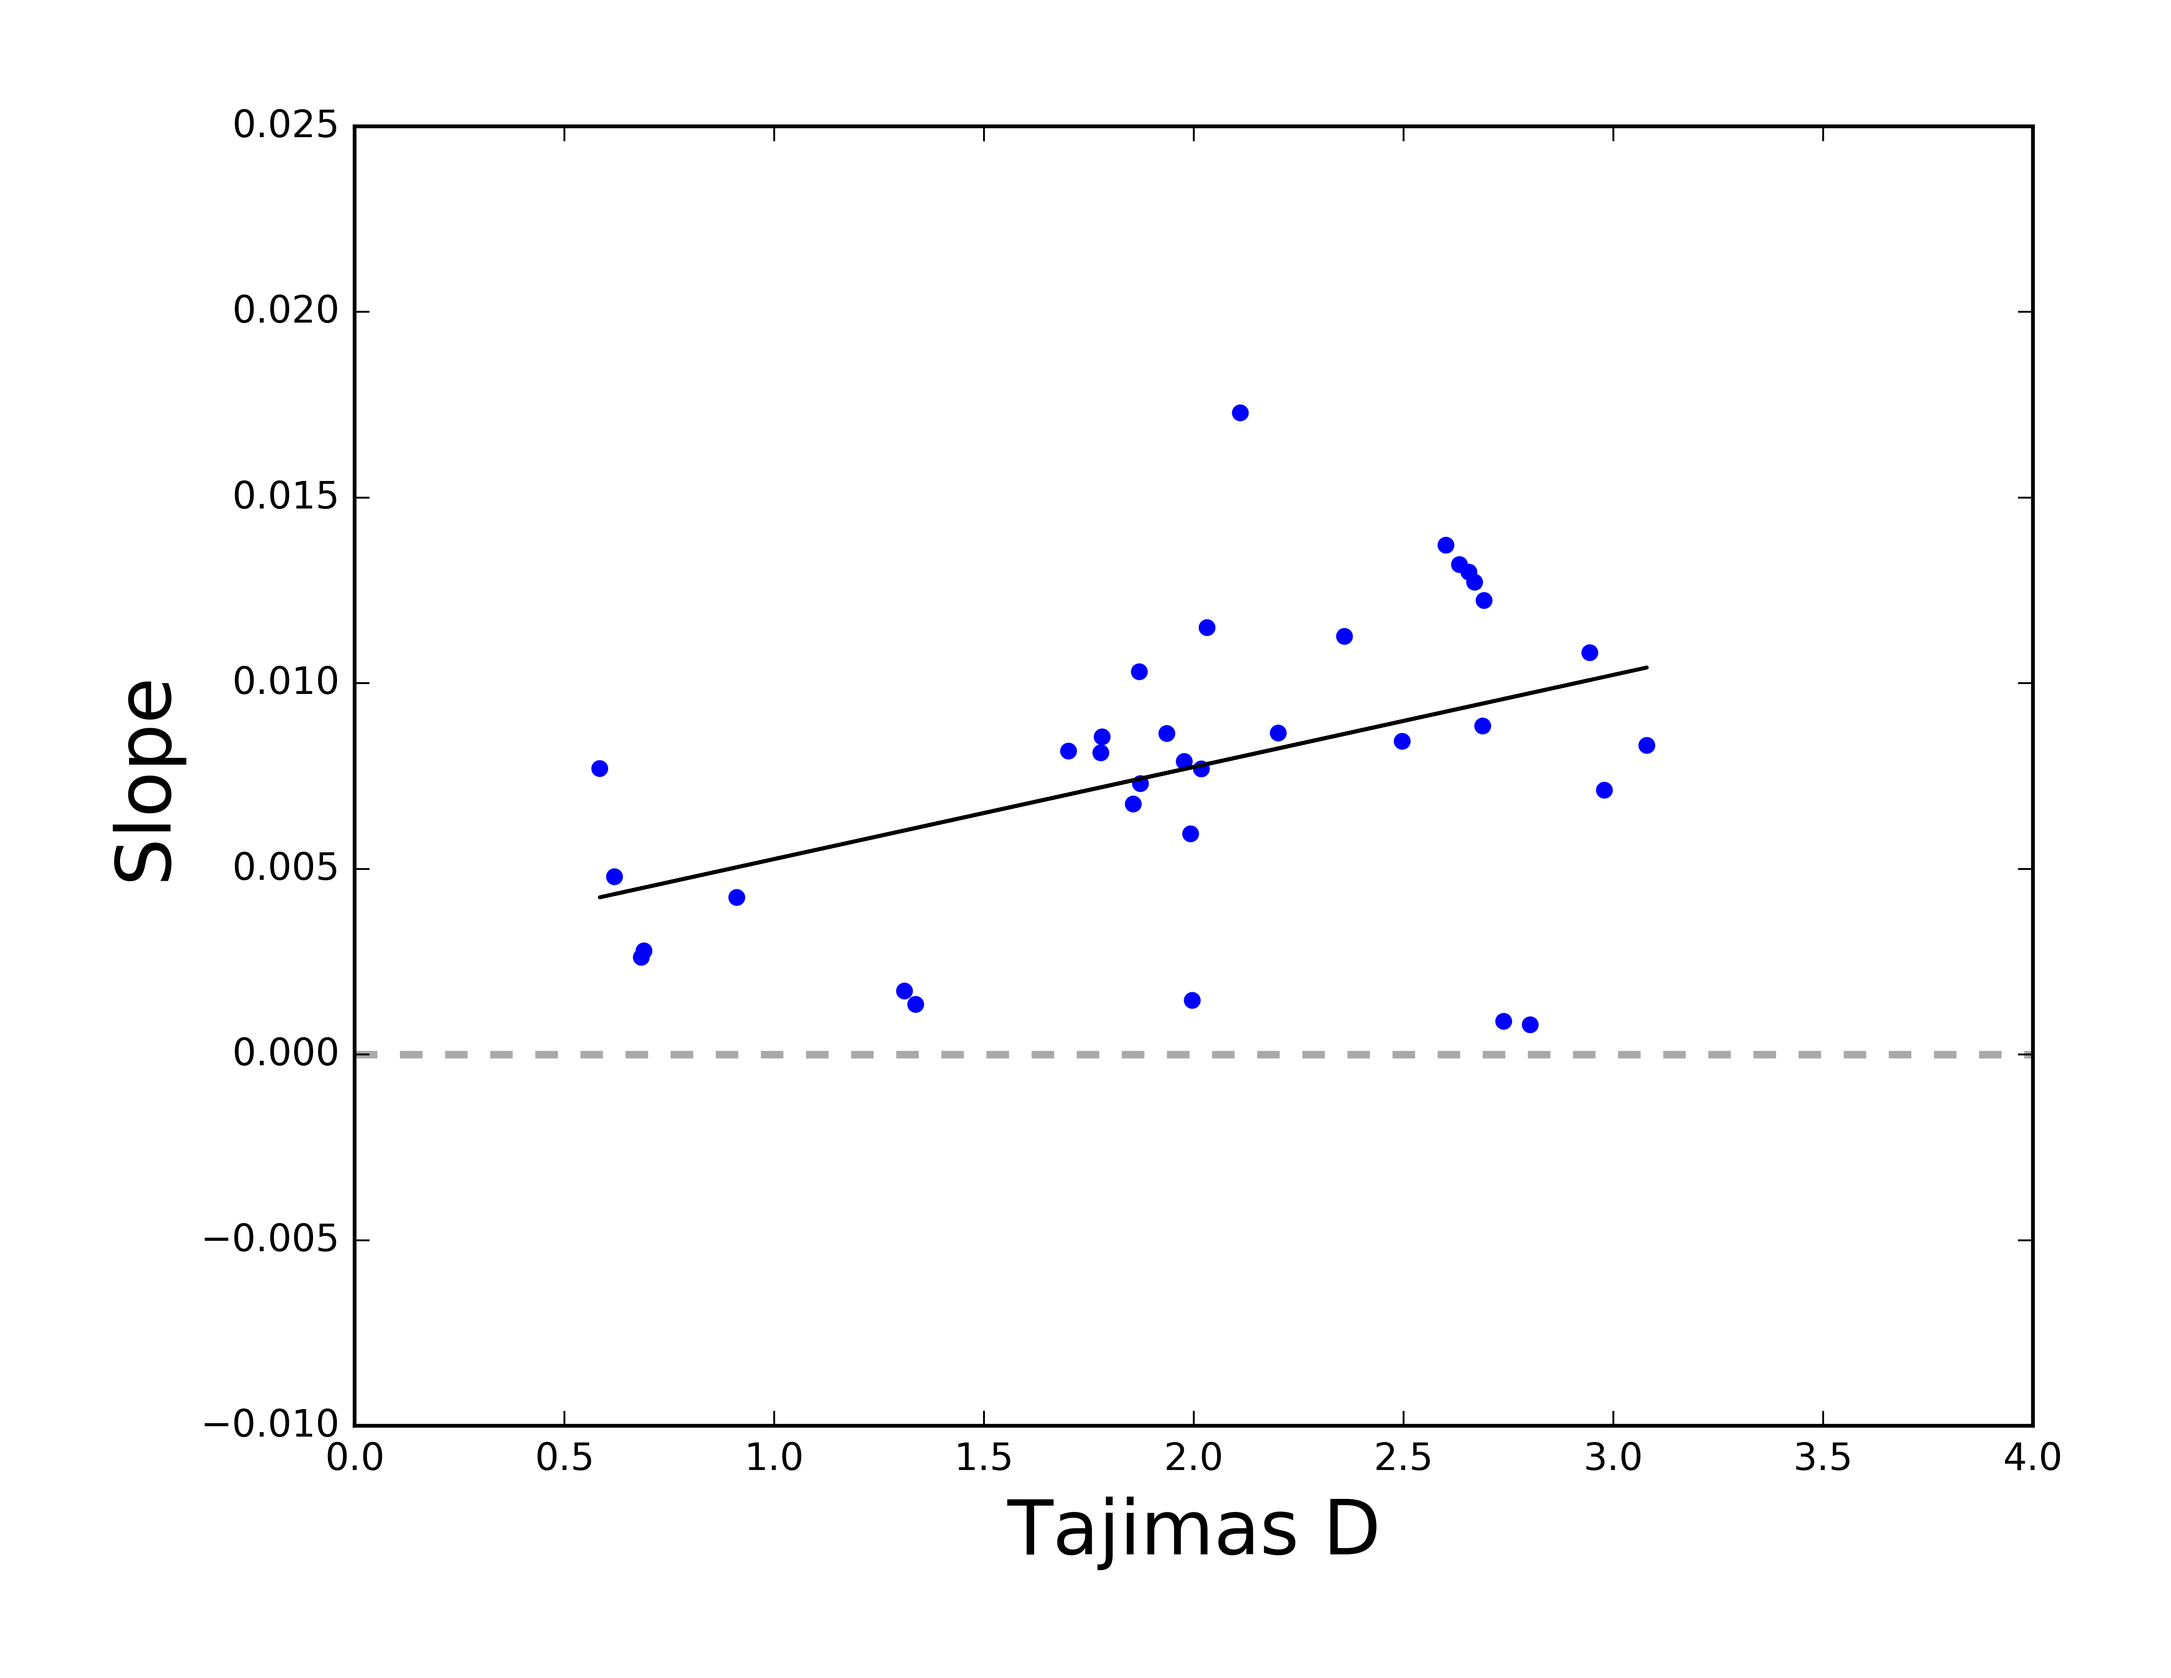
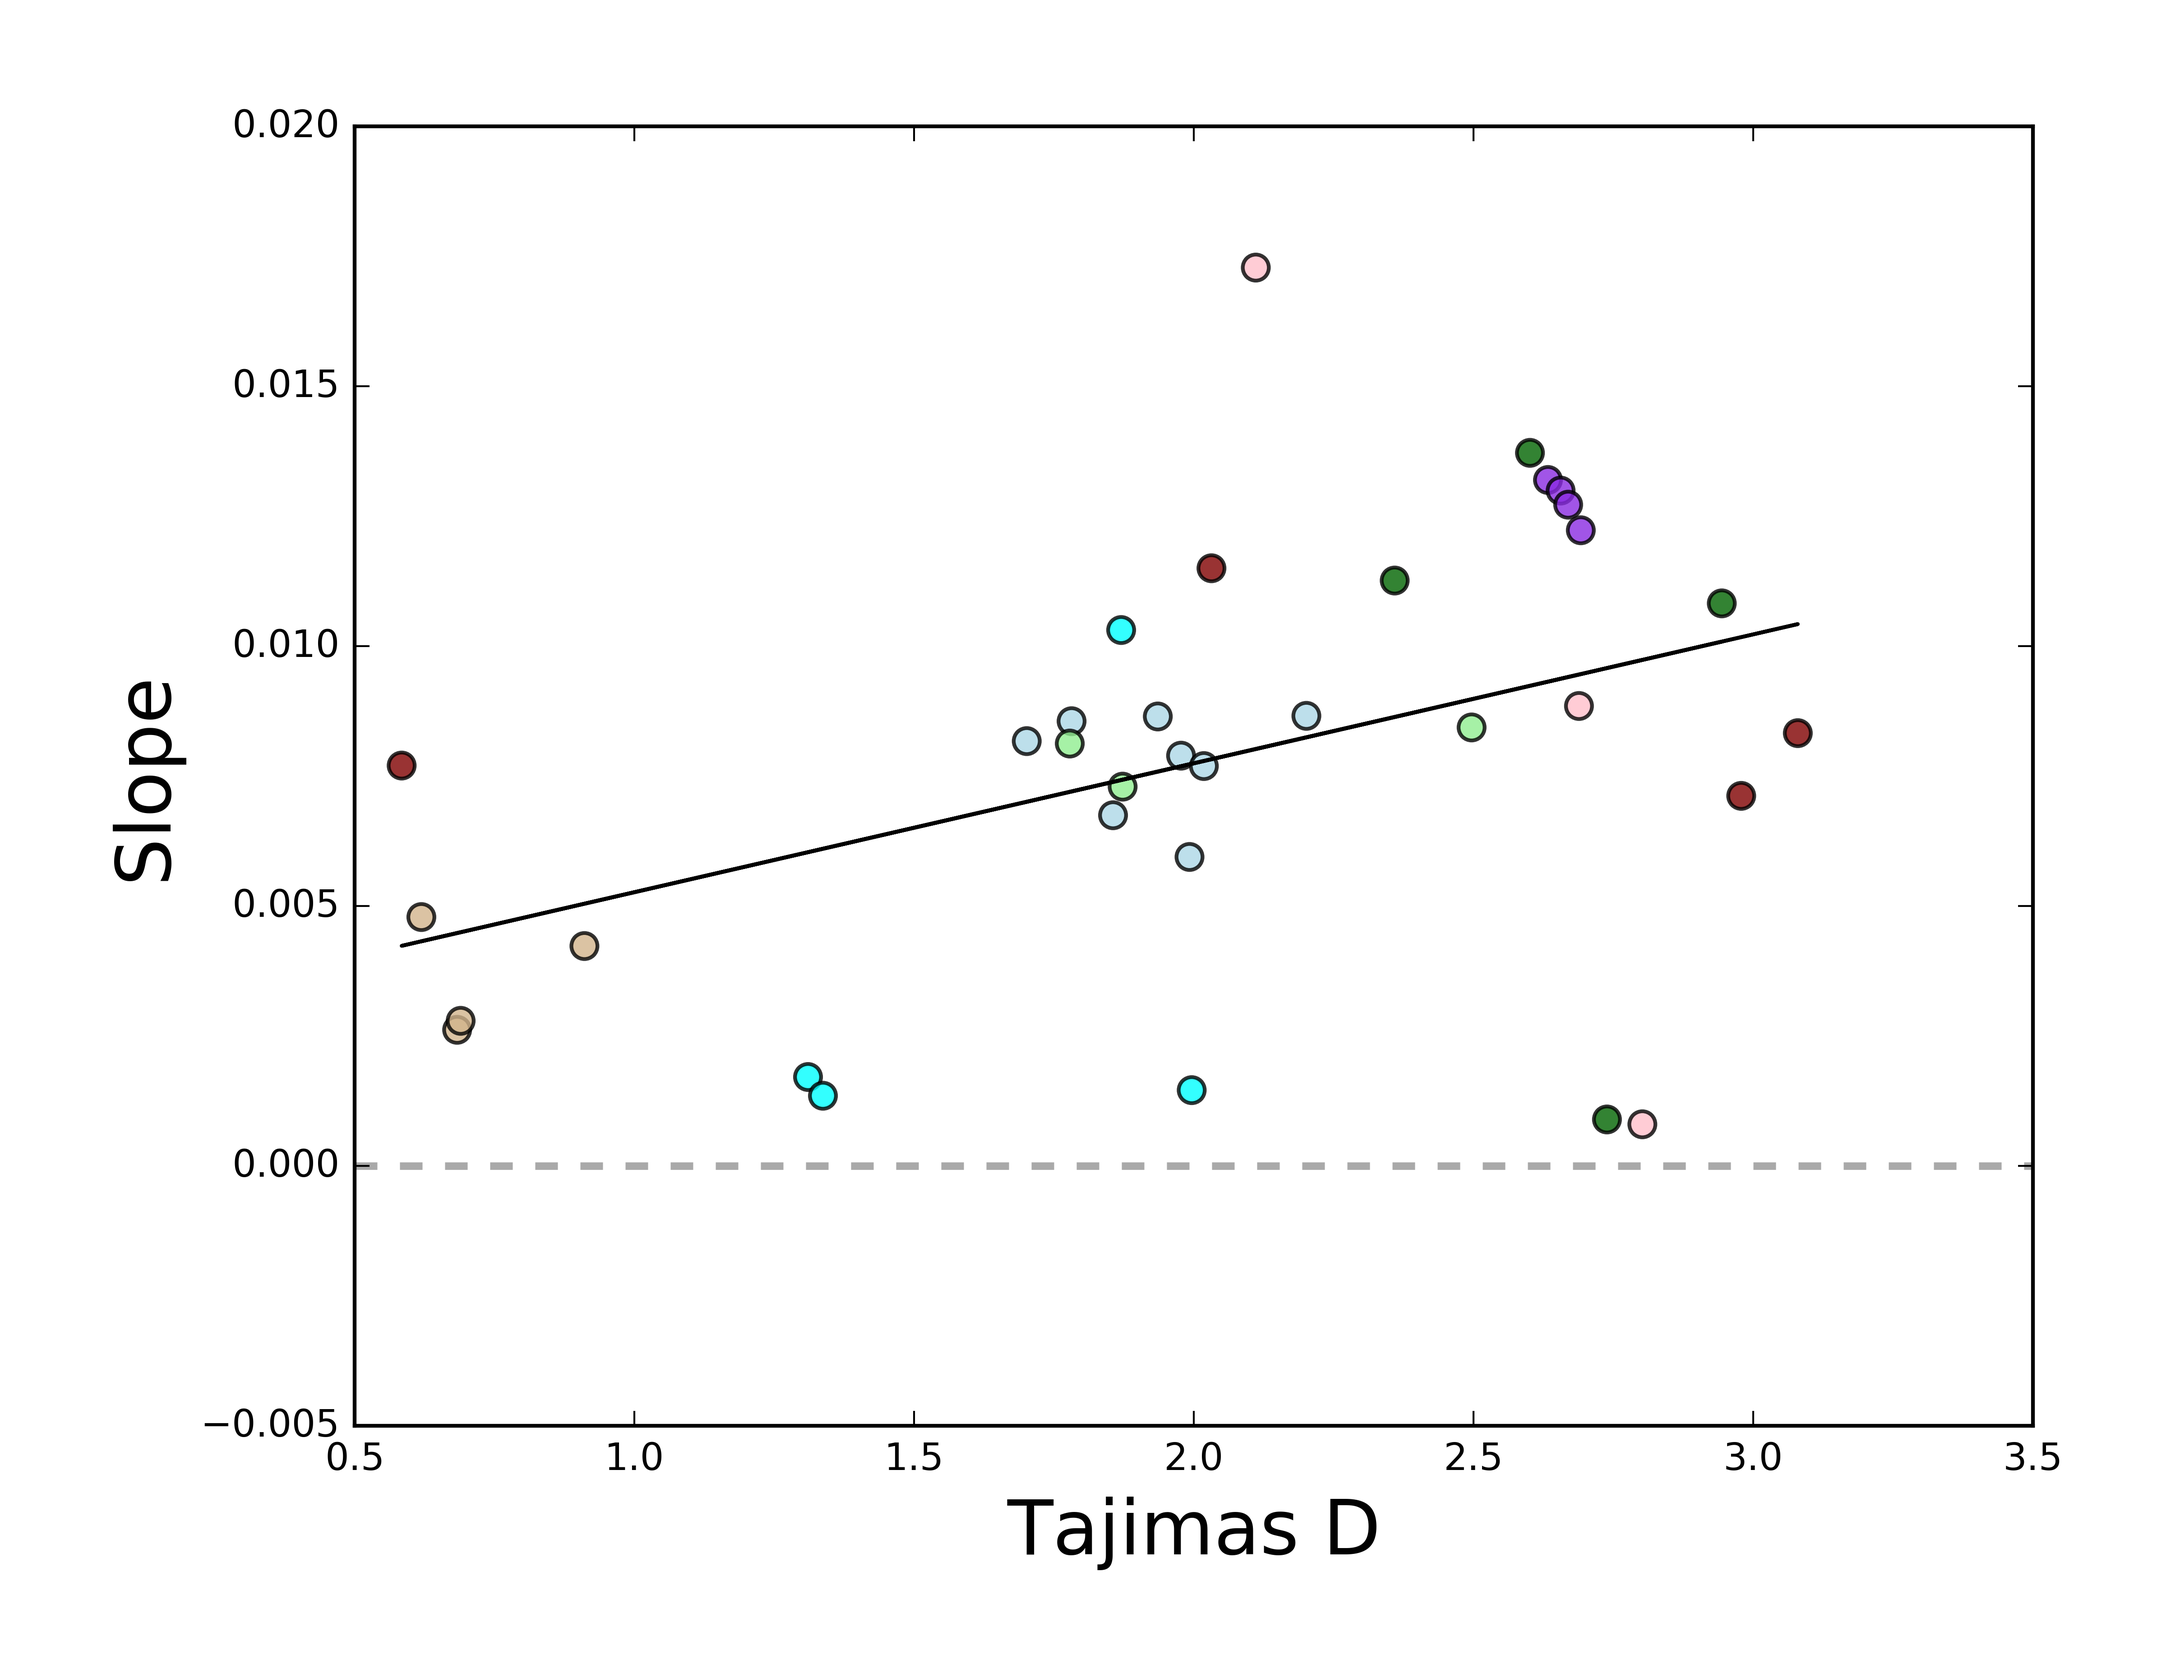
fixed figs

diff --git a/LTDE/Python/plot_params.py b/LTDE/Python/plot_params.py
@@ -6,6 +6,7 @@ import csv, collections
 from itertools import chain
 from scipy import stats
 import  matplotlib.pyplot as plt
+from operator import itemgetter
 
 mydir = os.path.expanduser("~/github/Task2/LTDE")
 
@@ -15,8 +16,8 @@ def plotPopGenStats():
     #strains = []
     T_D = []
     params = ['Pi', 'W', 'T_D']
-    strains = IN.Strain.unique()
     for param in params:
+        strains = IN.Strain.unique()
         param_values = []
         for strain in strains:
             #IN[['Pi']]surveys_df[surveys_df.year == 2002]
@@ -26,29 +27,35 @@ def plotPopGenStats():
         ax = fig.add_subplot(111)
         ax.axhline(linewidth=2, color='darkgrey',ls='--')
         # Create the boxplot
-        bp = ax.boxplot(param_values)
+        bp = ax.boxplot(param_values, patch_artist=True)
+        colors = ['cyan', 'lightblue', 'lightgreen', 'tan', 'pink', 'darkgreen', \
+            'maroon', 'blueviolet']
+        for patch, color in zip(bp['boxes'], colors):
+            patch.set_facecolor(color)
+            patch.set_alpha(0.3)
+
         ax.set_xticklabels(strains)
         ax.get_xaxis().tick_bottom()
         ax.get_yaxis().tick_left()
         if param == 'T_D':
             ax.set_ylabel('Tajimas D')
-            ax.set_ylim(-3.5, 3.5)
+            ax.set_ylim(-0.1, 3.5)
         elif param == 'W':
             ax.set_ylabel('Wattersons theta')
-            print param_values
-            ax.set_ylim(0, 3.5)
+            ax.set_ylim(0, 1)
         elif param == 'pi':
             ax.set_ylabel('nucleotide diversity (pi)')
             ax.set_ylim(0, 3.5)
         # Save the figure
-        fig.savefig(mydir + '/figs/' + param + '.png', bbox_inches='tight')
+        ax.set_title('Strains')
+        fig.savefig(mydir + '/figs/' + param + '.png', bbox_inches='tight',  dpi = 600)
         plt.close()
 
 
-#plotTD()
+plotPopGenStats()
 
-strain_list = ['KBS0722', 'KBS0724', 'KBS0727', 'KBS0715', 'KBS0703', 'KBS0711', \
-            'KBS0713', 'KBS0802']
+strain_list = [ 'KBS0703','KBS0711', 'KBS0713', 'KBS0715', 'KBS0722', 'KBS0724', \
+            'KBS0727', 'KBS0802']
 
 def TDvsEvolData():
     IN_TD = (mydir + '/data/mapgd/final/PopGenStats.txt')
@@ -107,20 +114,29 @@ def get_list(d):
     return_list  =[]
     for key, value in d.iteritems():
         for nested_key, nested_value in value.iteritems():
-            #nested_tuple = (key, nested_value)
-            return_list.append( nested_value)
+            nested_tuple = (key, nested_value)
+            return_list.append( nested_tuple)
+            #return_list.append( nested_value)
     return return_list
 
 def TDvsEvolPlot():
     data = TDvsEvolData()
     nested_list =get_list(data)
-    x = np.asarray([z[0] for z in nested_list ])
-    y = np.asarray([z[1] for z in nested_list ])
-    evol = [abs(z[2]) for z in nested_list ]
-
+    x = np.asarray([z[1][0] for z in nested_list ])
+    y = np.asarray([z[1][1] for z in nested_list ])
+    evol = [abs(z[1][2]) for z in nested_list ]
+    names = np.asarray([z[0] for z in nested_list ])
+    names_count = collections.Counter(names)
+    names_count_sorted  = sorted(names_count.items(), key=itemgetter(0))
+    colors = ['cyan', 'lightblue', 'lightgreen', 'tan', 'pink', 'darkgreen', \
+        'maroon', 'blueviolet']
+    colors_count = []
+    for enum, value in enumerate(names_count_sorted):
+        color = colors[enum]
+        colors_count.extend([color for i in range(value[1])])
     fig = plt.figure()
     ax1 = fig.add_subplot(111)
-    ax1.scatter(x, y, color='blue', edgecolor='none')
+    ax1.scatter(x, y, c= colors_count, alpha = 0.8, s = 48,edgecolor='black')
     slope, intercept, r_value, p_value, std_err = stats.linregress(x,y)
     print "slope = " + str(slope)
     print "r2 = " + str(r_value**2)
@@ -132,7 +148,8 @@ def TDvsEvolPlot():
     plt.plot(x, predict_y, 'k-')
     plt.axhline(linewidth=2, color='darkgrey',ls='--')
     plt.tick_params(axis='both', which='major', labelsize=10)
-    plt.xlim([0,4])
+    plt.xlim([0.5,3.5])
+    plt.ylim([-0.005,0.020])
     plt.xlabel('Tajimas D', fontsize=20)
     plt.ylabel('Slope', fontsize=20)
     fig.savefig(mydir + '/figs/test.png',  bbox_inches = "tight", pad_inches = 0.4, dpi = 600)
